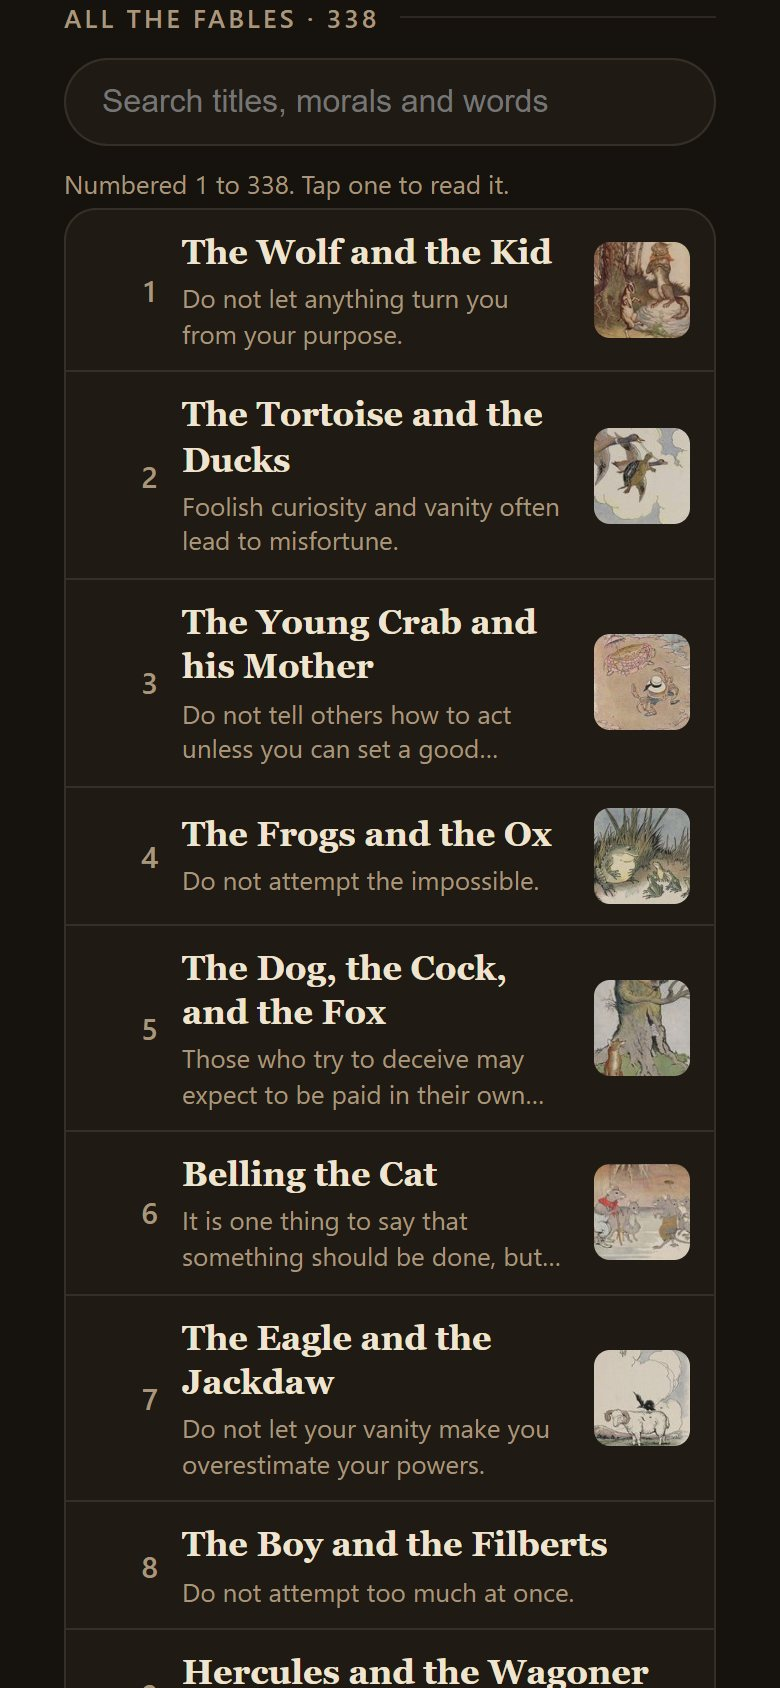
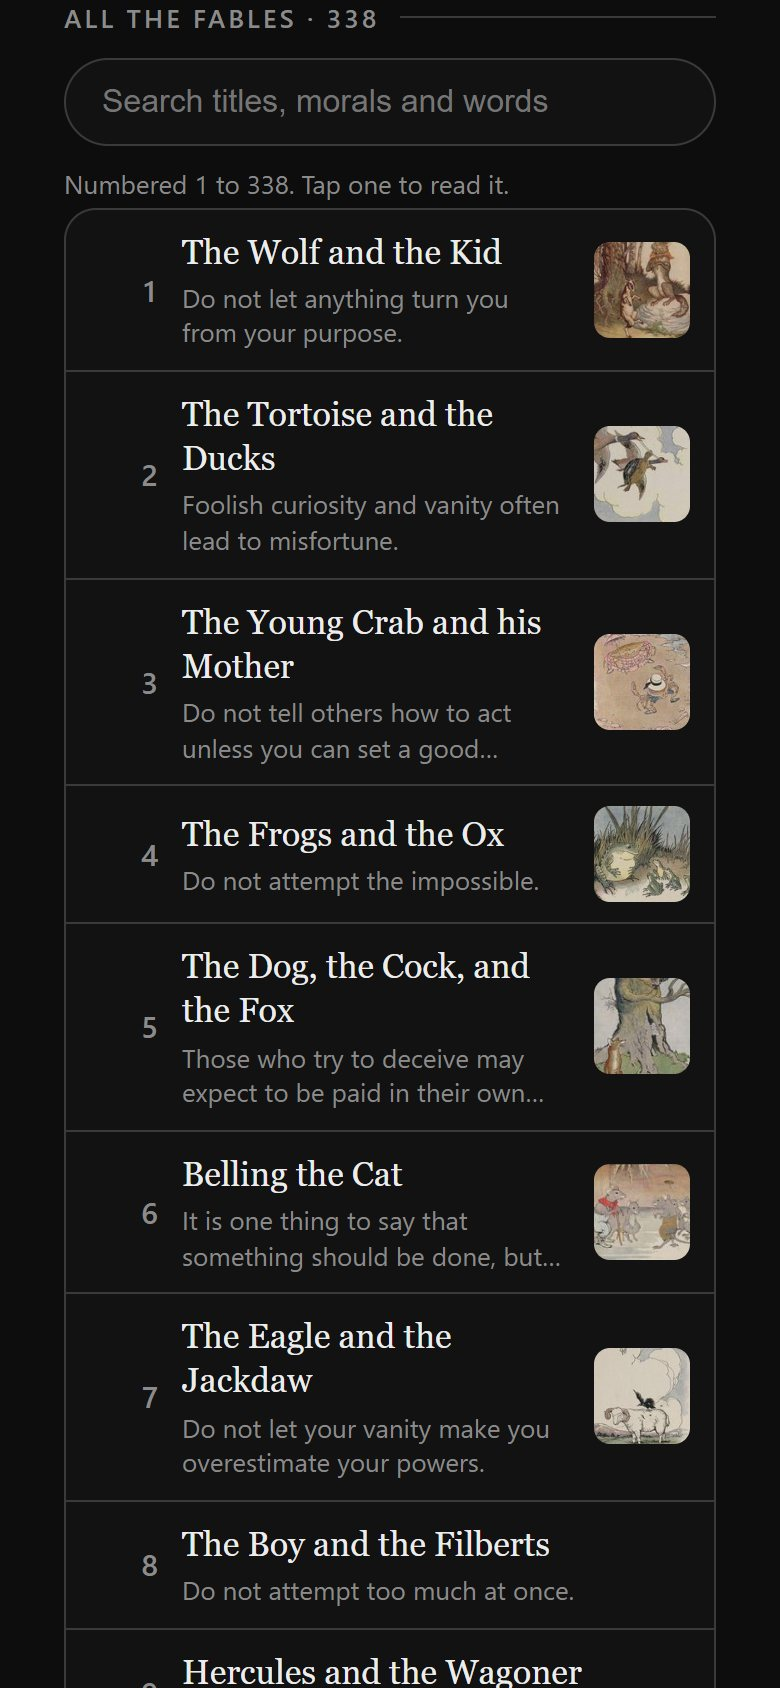
Store update 2026-10-12 13:33

diff --git a/apps/aesop/app.css b/apps/aesop/app.css
@@ -1,12 +1,17 @@
-/* Aesop's Fables on a phone: old-book colors, the picture like a plate in the 1919 book, the story, the moral; then all
-   the fables, numbered, with a search. */
-:root[data-theme="light"] { --bg: #f3ead8; --card: #fbf6ea; --ink: #2b2118; --muted: #7d6b55; --line: rgba(60, 40, 10, .14); --accent: #9a5b1e; }
-:root[data-theme="dark"] { --bg: #16120d; --card: #1f1a13; --ink: #efe4cf; --muted: #a8977c; --line: rgba(255, 240, 210, .1); --accent: #d9a35a; }
+/* Aesop's Fables on a phone: Co-Star's colors (like the PC since 1.5: near-black or off-white, grey ink, thin grey lines),
+   the picture in a plain frame, the story, the moral in the same serif; then all the fables, numbered, with a search. */
+:root[data-theme="light"] { --bg: #f7f7f7; --card: #fbfbfb; --ink: #161616; --muted: #8b8b8b; --line: #cdcdcd; --accent: #161616; }
+:root[data-theme="dark"] { --bg: #0d0d0d; --card: #121212; --ink: #ececec; --muted: #8b8b8b; --line: #3a3a3a; --accent: #ececec; }
+/* The name fits neatly: regular weight, balanced lines, smaller for a long one (app.js marks them). */
+.d-title h1 { font-weight: 400; font-size: 36px; line-height: 1.12; letter-spacing: 0; text-wrap: balance; }
+.d-title h1.long { font-size: 30px; }
+.d-title h1.longer { font-size: 26px; }
+.d-title .sub { font-style: normal; }
 .plate { padding: 10px; background: var(--card); } .plate img { border-radius: 6px; }
 .plate-credit { margin: 6px 16px 0; font-size: 12px; color: var(--muted); text-align: center; }
 .story { margin: 18px 16px 0; font-size: 19px; line-height: 1.55; color: var(--ink); }
 .story p { margin: 0 0 14px; } .story p:first-child::first-letter { font-size: 3.1em; float: left; line-height: .9; padding: 4px 8px 0 0; color: var(--accent); }
-.moral .big { font-style: italic; }
+.moral .big { font-style: normal; font-size: 20px; line-height: 1.5; }   /* upright, in the story's serif */
 
 /* The fable's number, where it's from, the way back, and the fables either side */
 .d-title .num { margin-top: 10px; font-size: 12px; font-weight: 700; letter-spacing: .14em; text-transform: uppercase; color: var(--muted); }
@@ -33,7 +38,7 @@
 .row + .row { border-top: 1px solid var(--line); }
 .row .no { flex: none; width: 34px; text-align: right; font: 600 15px system-ui, sans-serif; color: var(--muted); font-variant-numeric: tabular-nums; }
 .row .what { flex: 1; min-width: 0; }
-.row b { font: 600 17px/1.25 "Iowan Old Style", "Palatino", Georgia, serif; }
+.row b { font: 500 17px/1.25 "Iowan Old Style", "Palatino", Georgia, serif; }
 .row em { margin-left: 8px; padding: 2px 8px; border-radius: 999px; font: 700 10px system-ui, sans-serif; letter-spacing: .1em; text-transform: uppercase;
   font-style: normal; vertical-align: 2px; background: var(--accent); color: var(--bg); }
 .row small { display: -webkit-box; -webkit-line-clamp: 2; -webkit-box-orient: vertical; overflow: hidden; margin-top: 3px;

diff --git a/apps/aesop/app.js b/apps/aesop/app.js
@@ -50,7 +50,7 @@
         <button class="to-all" type="button">All ${A.count} fables &darr;</button></div>
         <div class="d-theme"><button data-t="light">Light</button><button data-t="dark">Dark</button></div></div>
       ${browsing ? `<a class="back" href="#"><span>&larr; Back to today&rsquo;s fable</span><b>${esc(t.title)}</b></a>` : ''}
-      <div class="d-title">${f.n ? `<div class="num">No. ${f.n} of ${A.count}</div>` : ''}<h1 class="serif">${esc(f.title)}</h1>
+      <div class="d-title">${f.n ? `<div class="num">No. ${f.n} of ${A.count}</div>` : ''}<h1 class="serif${f.title.length > 40 ? ' longer' : f.title.length > 26 ? ' long' : ''}">${esc(f.title)}</h1>
         <div class="sub">Aesop, about 2,600 years ago</div></div>
       ${pic ? `<div class="d-pic plate"><img src="${file('photos', pic)}" alt=""></div>
         <div class="plate-credit">Picture by Milo Winter, from <i>The Aesop for Children</i> (1919)</div>` : ''}
